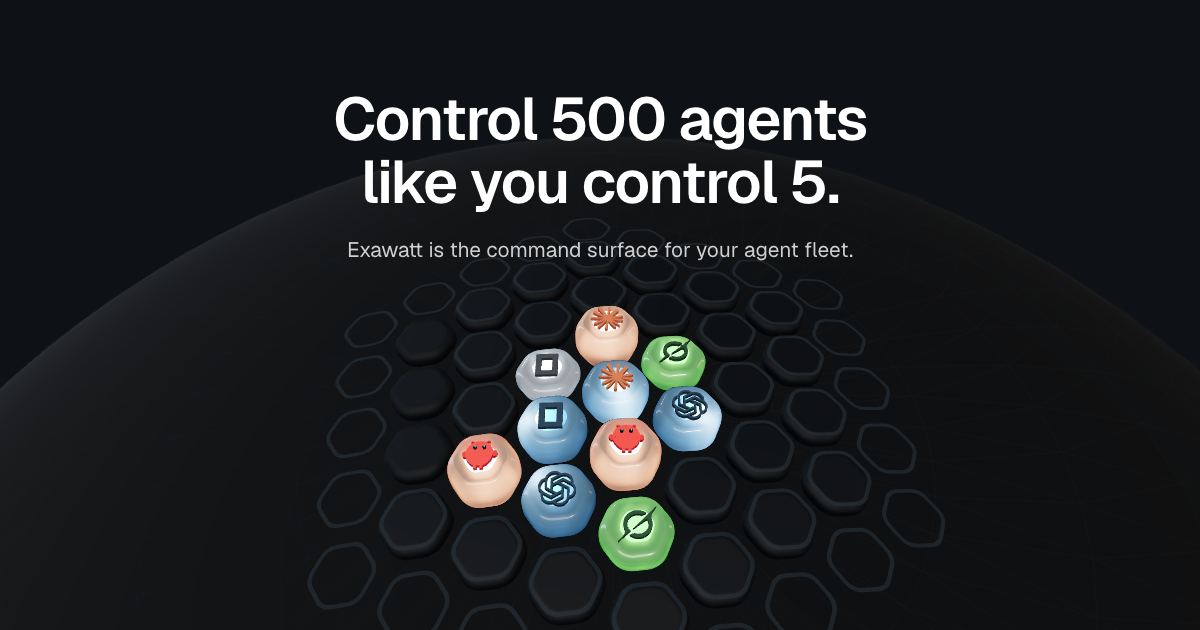
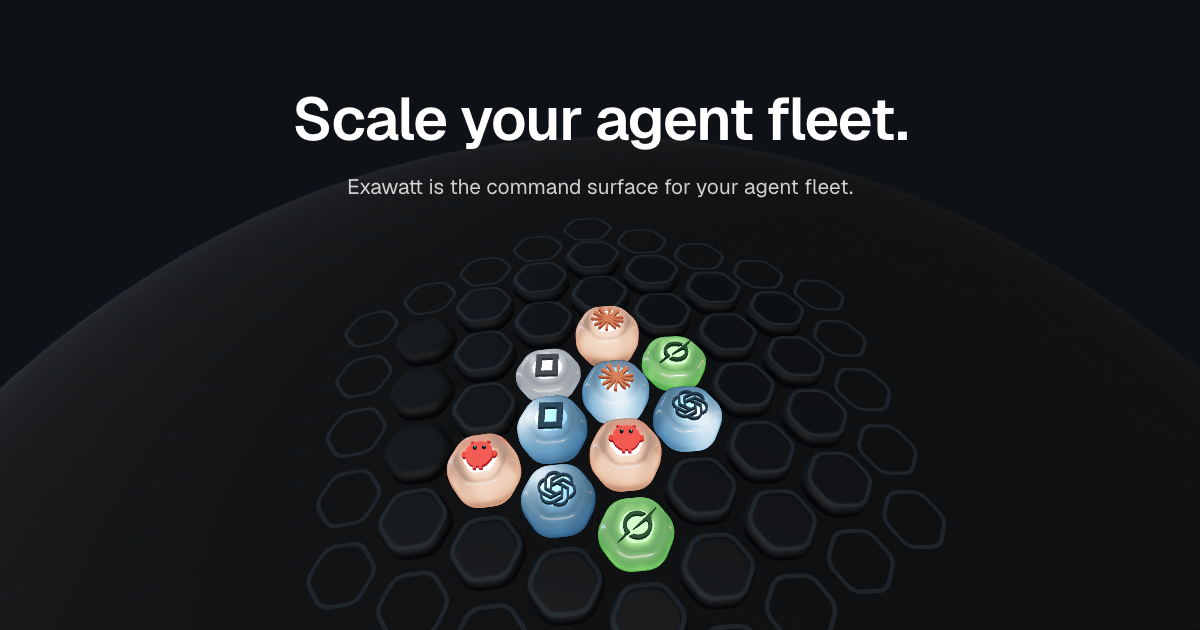
public: update ASSET_PROVENANCE.json, public, src
Public projection with unreviewed source metadata replaced.

Exawatt-Public-Metadata-Policy: exawatt-public-metadata-v2

diff --git a/src/components/site/fleet-story/stages.ts b/src/components/site/fleet-story/stages.ts
@@ -79,18 +79,18 @@ export const STAGES: Stage[] = [
     focus: 'fleet',
     labels: false,
     count: 10,
-    // The promise, then what it is (operator 2026-10-14, choosing the
-    // scale angle for the homepage: "Control 500 like 5"; and on the line
-    // under it, which read as a list: "Maybe in scene 1 it should be:
-    // Exawatt is the command surface for your agent fleet"). The deck keeps
-    // the line it had, to compare.
+    // The promise, then what it is (operator 2026-10-14, keeping the scale
+    // angle for the homepage: "Make the scene 1 H1 'Scale your agent
+    // fleet'"; and on the line under it, which read as a list: "Maybe in
+    // scene 1 it should be: Exawatt is the command surface for your agent
+    // fleet"). The deck keeps the line it had, to compare.
     copy: {
       deck: {
         headline: ['The command interface for your agent fleet.'],
         body: ['Today you run 10 agents.', 'Tomorrow you will run 10,000.'],
       },
       canon: {
-        headline: ['Control 500 agents like you control 5.'],
+        headline: ['Scale your agent fleet.'],
         body: ['Exawatt is the command surface for your agent fleet.'],
       },
     },
@@ -109,12 +109,11 @@ export const STAGES: Stage[] = [
         headline: ["Easily see each agent's", 'working status'],
         body: ['From credit usage, to time spent.'],
       },
+      // what the card shows, and nothing after it (operator 2026-10-14:
+      // "Remove the copy 'Without opening a single one.'")
       canon: {
         headline: ['Every agent, at a glance.'],
-        body: [
-          'What it is doing, on which model, and what it has spent.',
-          'Without opening a single one.',
-        ],
+        body: ['What it is doing, on which model, and what it has spent.'],
       },
     },
   },
@@ -164,9 +163,11 @@ export const STAGES: Stage[] = [
       },
       // any harness, side by side (operator 2026-10-14: "a huge value prop
       // of Exawatt to be able to bring your own agents of any type, run
-      // them all together, and see them all executing in the same place")
+      // them all together, and see them all executing in the same place";
+      // and on its title, "Every kind of agent -> 'Every species of
+      // agent'")
       canon: {
-        headline: ['Every kind of agent,', 'side by side.'],
+        headline: ['Every species of agent,', 'side by side.'],
         body: [
           'Bring Claude Code, Codex, OpenClaw, or your own.',
           'Run them together and watch them all work in one place.',
